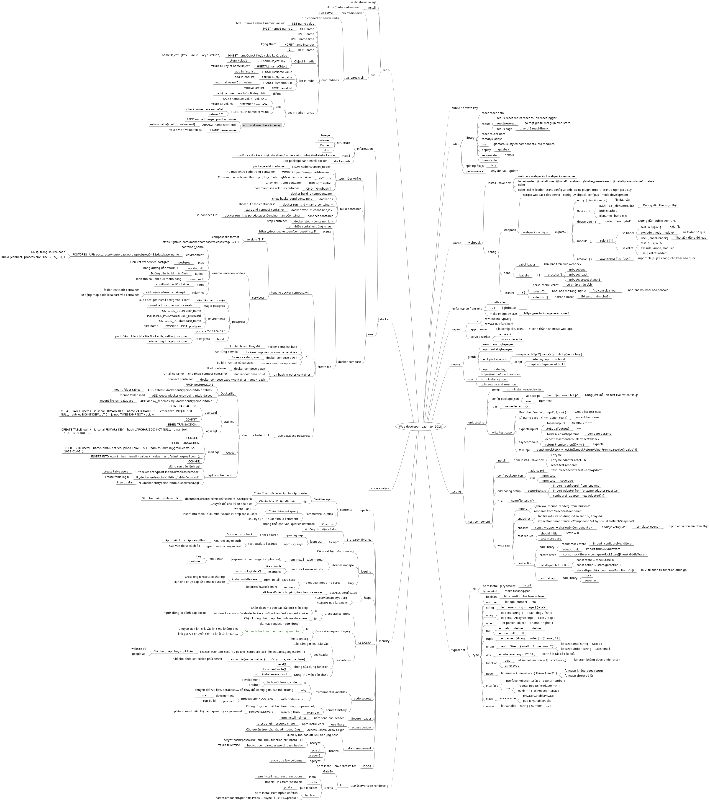
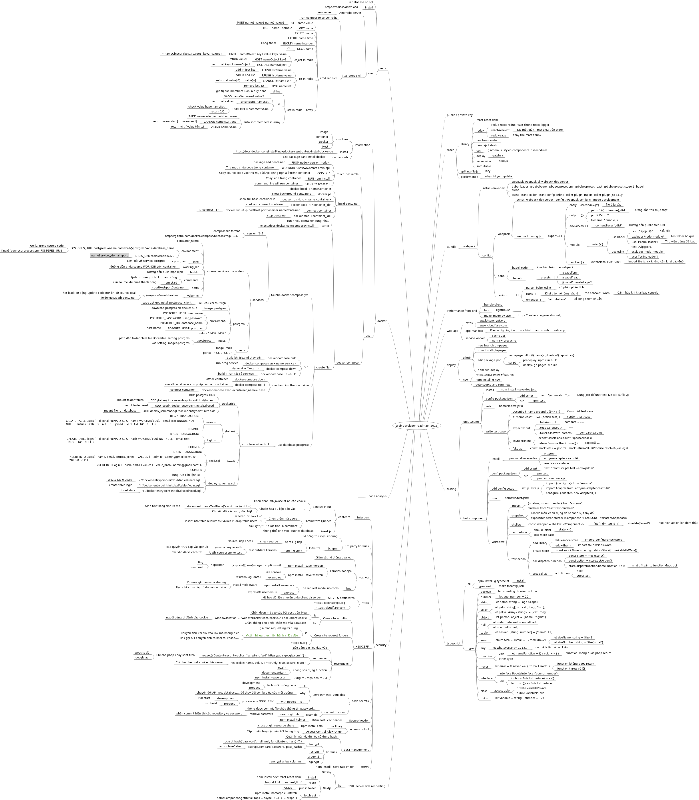
update

diff --git a/website/Web-developer roadmap -2018.mm b/website/Web-developer roadmap -2018.mm
@@ -515,12 +515,15 @@
 <node CREATED="1567018702440" ID="ID_817354370" MODIFIED="1567018703413" TEXT="https://github.com/docker/compose/releases/tag/1.24.1"/>
 </node>
 <node CREATED="1567018713010" ID="ID_1493190291" MODIFIED="1567018722095" TEXT="services:">
-<node CREATED="1567018722985" ID="ID_914002722" MODIFIED="1567096925678" TEXT="&lt;name_service&gt;:nodejs">
+<node CREATED="1567018722985" ID="ID_914002722" MODIFIED="1568556454821" TEXT="&lt;name_service&gt;:  ~ nodejs: ">
 <node CREATED="1567018755594" ID="ID_1445086320" MODIFIED="1567018765814" TEXT="container_name:"/>
 <node CREATED="1567096935529" ID="ID_623491969" MODIFIED="1567096951361" TEXT="environment:">
 <node CREATED="1567096952182" ID="ID_1829917355" MODIFIED="1567097083653" TEXT="POSTGRES_ URI: postgress://name:password@postgres:5432/database_name">
 <node CREATED="1567096969903" ID="ID_1359816754" MODIFIED="1567097110361" TEXT="G&#x1ecd;i l&#x1ea1;i trong source code"/>
 <node CREATED="1567097110993" ID="ID_723610517" MODIFIED="1567097170240" TEXT="Knex({connect: process.env.POSTGRES_URI})"/>
+</node>
+<node CREATED="1568556878783" ID="ID_160560973" MODIFIED="1568556957745" TEXT="REDIS_URI: redis://redis:6379">
+<node CREATED="1568556995606" ID="ID_1448015232" MODIFIED="1568557030504" TEXT="nameService://domain:port"/>
 </node>
 </node>
 <node CREATED="1567097175428" ID="ID_1735254145" MODIFIED="1567097190360" TEXT="links:">
@@ -529,21 +532,24 @@
 </node>
 </node>
 <node CREATED="1567018766057" ID="ID_215767952" MODIFIED="1567018803178" TEXT="working_dir:">
-<node CREATED="1567018804235" ID="ID_1116784238" MODIFIED="1567018846644" TEXT="b&#x103;ng &#x111;&#x1b0;&#x1edd;ng d&#x1eab;n WORKDIR"/>
+<node CREATED="1567018804235" ID="ID_1116784238" MODIFIED="1568556558991" TEXT="&#x111;&#x1b0;&#x1edd;ng d&#x1eab;n ch&#x1ee9;a sourse WORKDIR tr&#xea;n container"/>
 </node>
 <node CREATED="1567018848218" ID="ID_319881569" MODIFIED="1567018852903" TEXT="build: .">
 <node CREATED="1567018854269" ID="ID_1699331216" MODIFIED="1567018868299" TEXT="&#x110;&#x1b0;&#x1edd;ng d&#x1eab;n build m&#x1eb7;c &#x111;&#x1ecb;nh"/>
 </node>
 <node CREATED="1567018869309" ID="ID_916584669" MODIFIED="1567018876010" TEXT="command: ">
-<node CREATED="1567018876019" ID="ID_1941954087" MODIFIED="1567018895345" TEXT="l&#x1ec7;nh run sau phi buil th&#xe0;nh c&#xf4;ng"/>
+<node CREATED="1567018876019" ID="ID_1941954087" MODIFIED="1568556650685" TEXT="l&#x1ec7;nh run sau phi build th&#xe0;nh c&#xf4;ng"/>
+<node CREATED="1568556594254" ID="ID_1549092514" MODIFIED="1568556599739" TEXT="npm start">
+<node CREATED="1568556608013" ID="ID_992419563" MODIFIED="1568556635130" TEXT="run source khi build th&#xe0;nh c&#xf4;ng"/>
+</node>
 </node>
 <node CREATED="1567018896204" ID="ID_1036633730" MODIFIED="1567018902060" TEXT="ports:">
 <node CREATED="1567018903586" ID="ID_532350181" MODIFIED="1567018921947" TEXT="- portHost:portContainer"/>
 </node>
 <node CREATED="1567019883574" ID="ID_1120514412" MODIFIED="1567019888783" TEXT="volumns:">
 <node CREATED="1567019892220" ID="ID_837497552" MODIFIED="1567019927558" TEXT="-./:/usr/www/smart-brain-api">
+<node CREATED="1567019929019" ID="ID_875584196" MODIFIED="1568556722278" TEXT="hot load: T&#x1ef1; &#x111;&#x1ed9;ng update code m&#x1edb;i khi t&#x1eeb; source local"/>
 <node CREATED="1567019973895" ID="ID_42705431" MODIFIED="1567020007069" TEXT="folderHost:path-container"/>
-<node CREATED="1567019929019" ID="ID_875584196" MODIFIED="1567019970791" TEXT="T&#x1ef1; &#x111;&#x1ed9;ng map code localhost v&#xe0;o container"/>
 </node>
 </node>
 </node>
@@ -569,6 +575,10 @@
 <node CREATED="1567549695349" ID="ID_1461092406" MODIFIED="1567549708328" TEXT="x&#xf3;a setting images:postgres"/>
 </node>
 </node>
+</node>
+<node CREATED="1568556779704" ID="ID_1679231845" MODIFIED="1568556782195" TEXT="redis">
+<node CREATED="1568556789761" ID="ID_1029505725" MODIFIED="1568556794697" TEXT="image: redis"/>
+<node CREATED="1568556798602" ID="ID_1384112534" MODIFIED="1568556977224" TEXT="ports: - &apos;&quot;6379:6379&quot;"/>
 </node>
 </node>
 </node>
